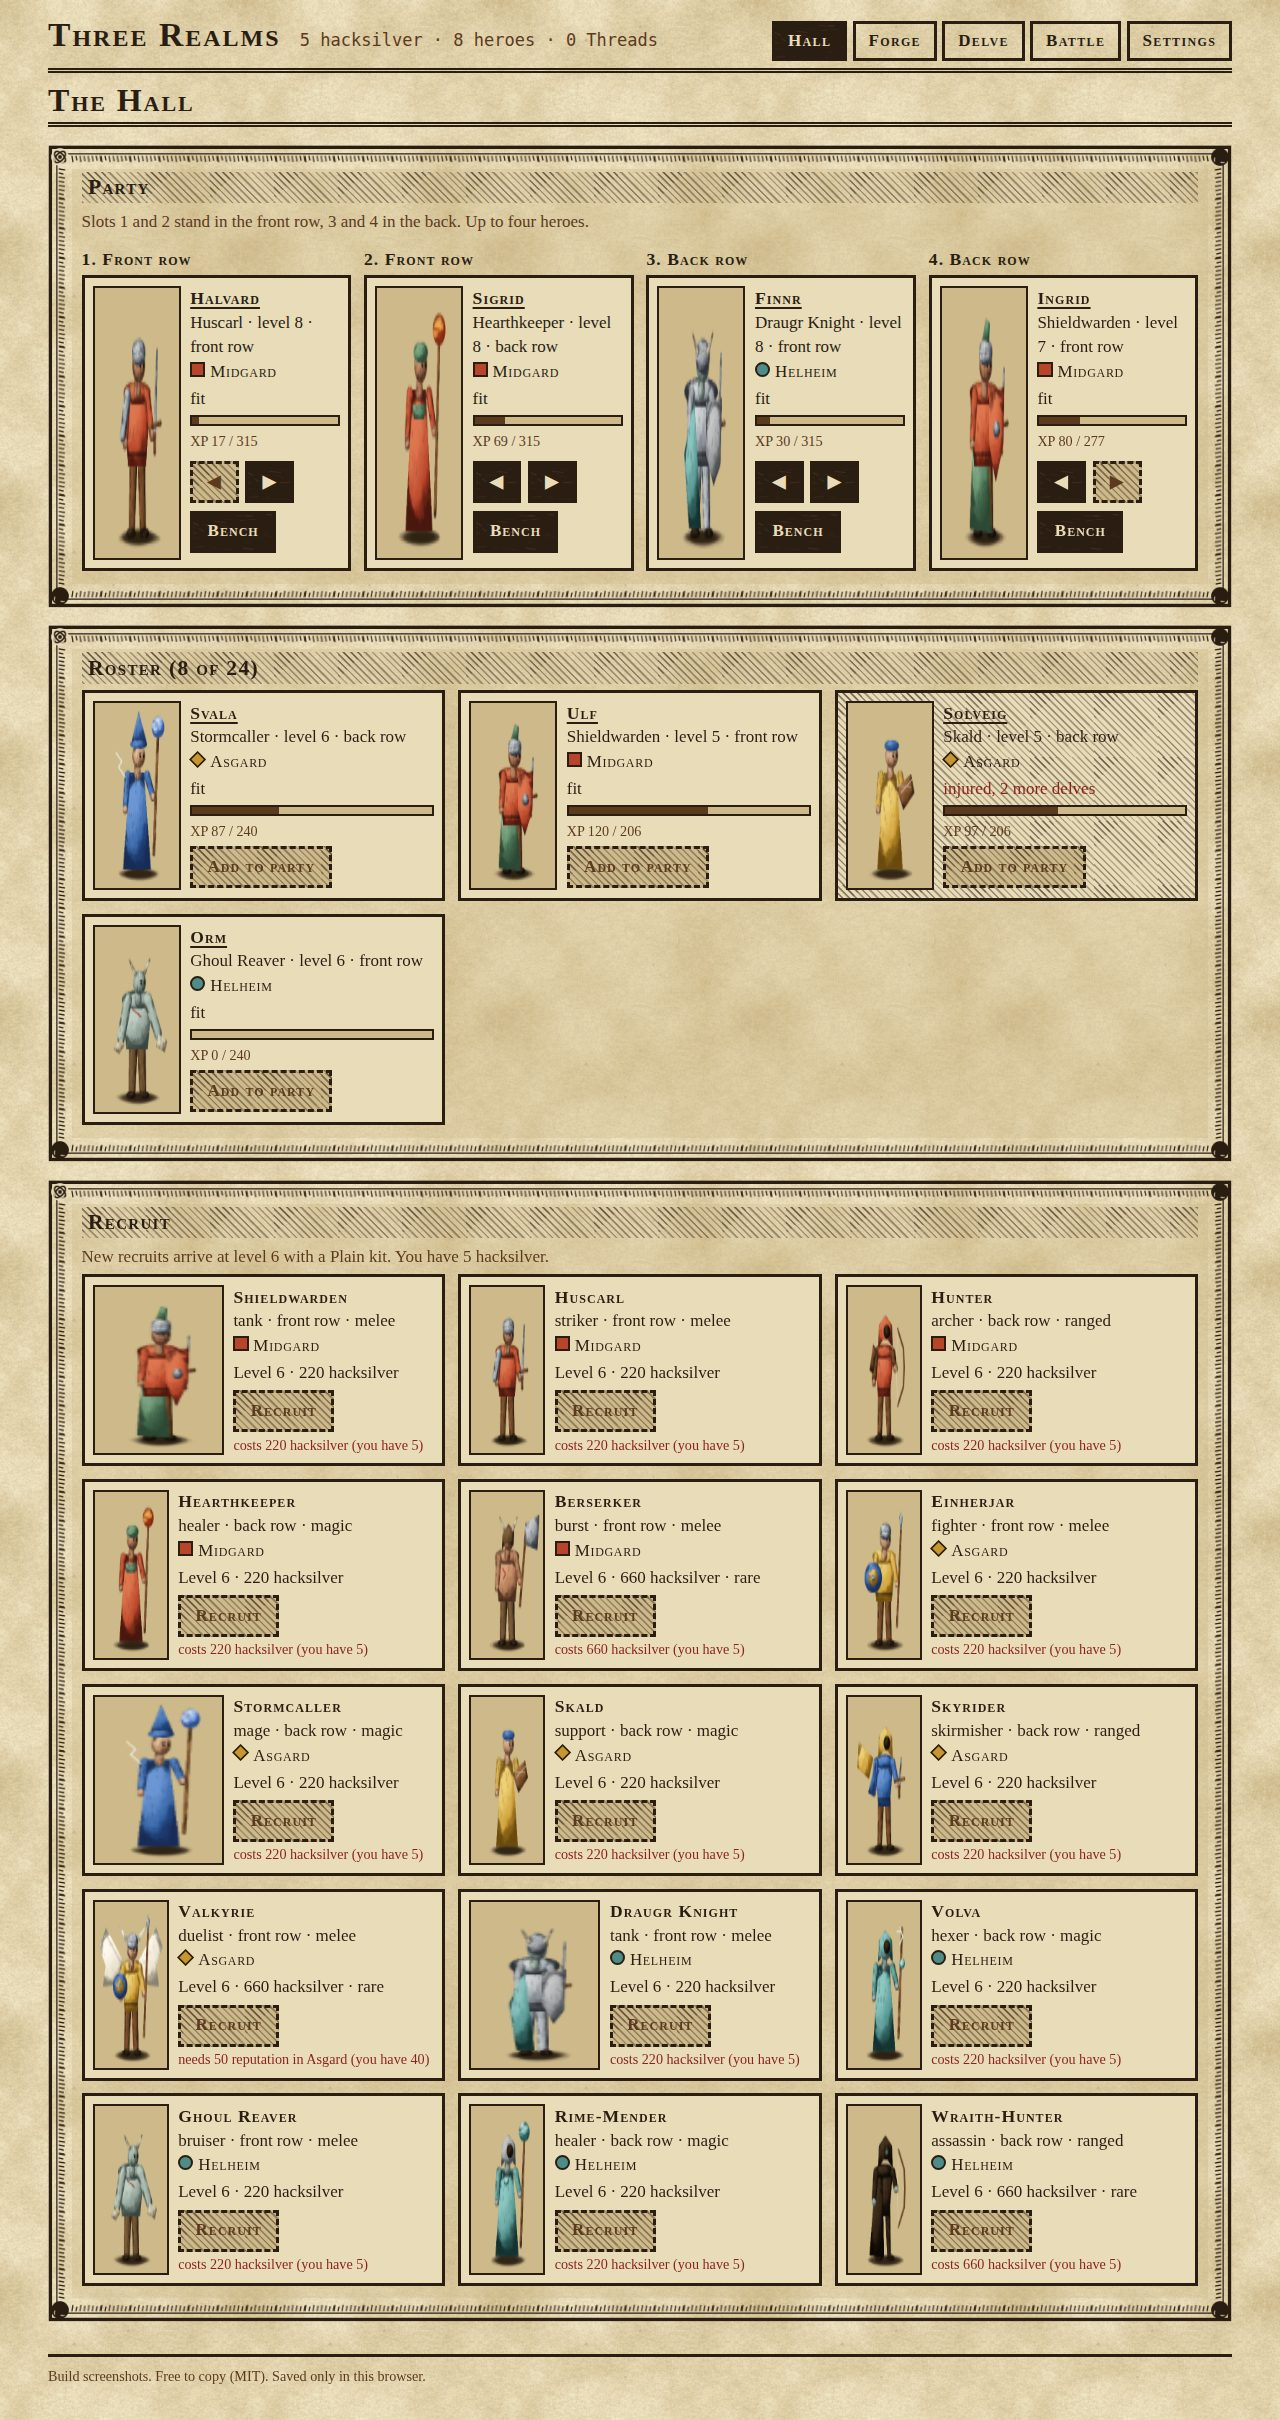
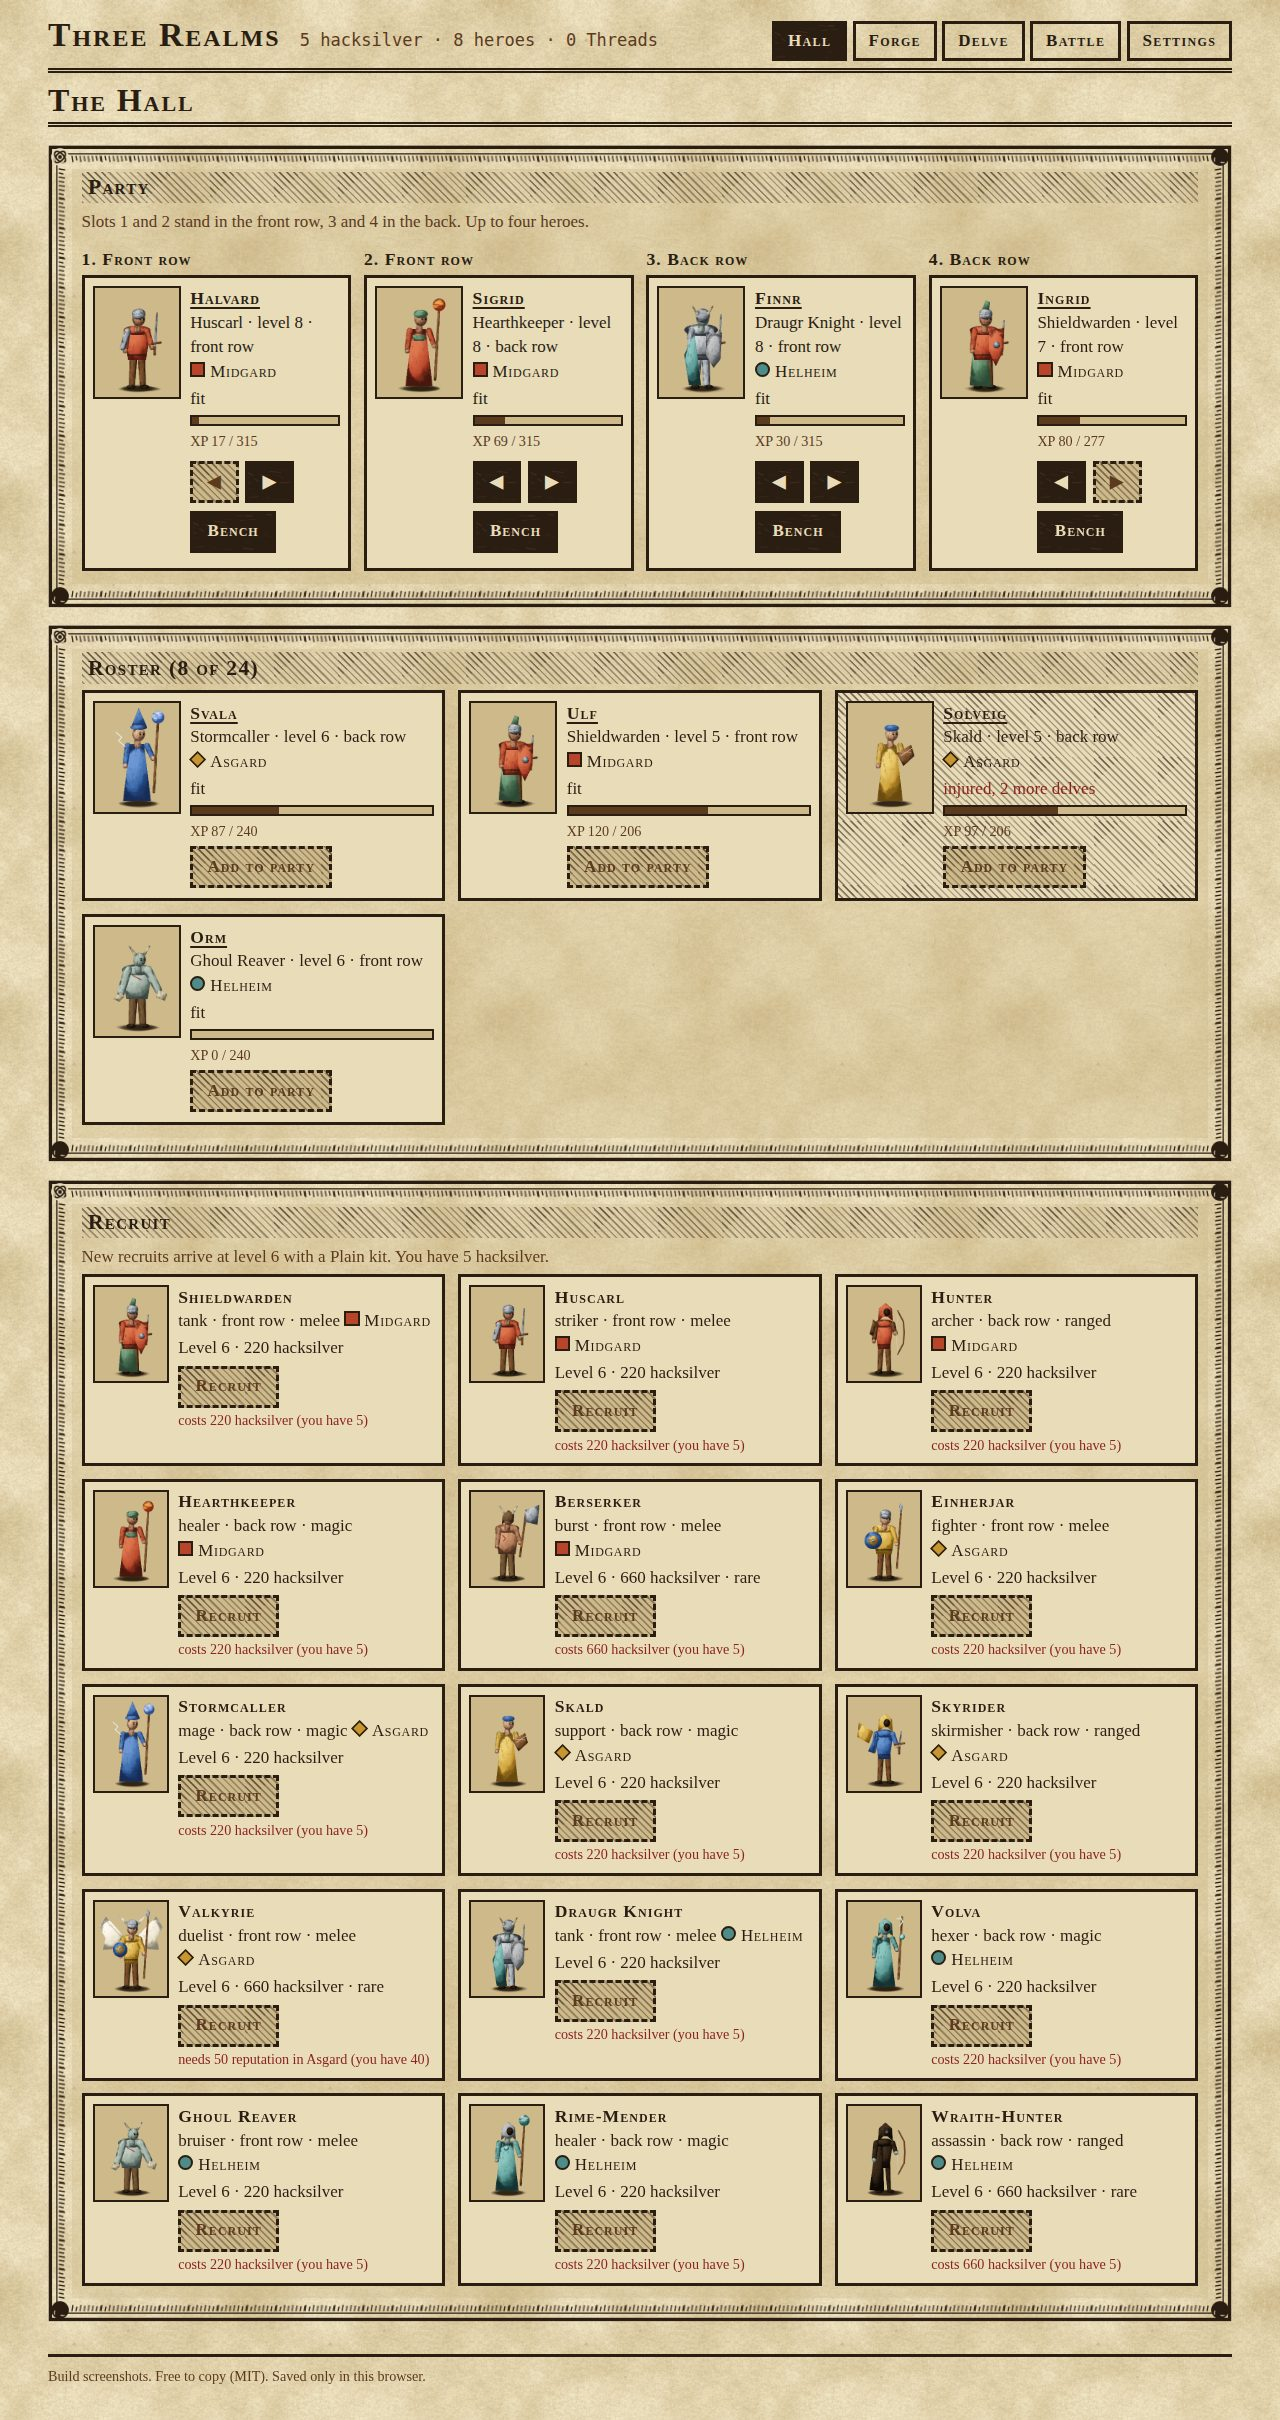
G4 playtest fixes: portrait aspect ratio in cards; upgrade result shows old and new bonus lines in the same units, with main stat at both stars; 477 tests
Claude-Session: https://claude.ai/code/session_0116toA1acAM4p7NexEw6SNf

diff --git a/client/screens/forge.js b/client/screens/forge.js
@@ -4,7 +4,7 @@ import { panel, kv, button } from '../ui.js';
 import { upgradeAttempt, acceptAttempt, undoAttempt, salvage, buyThread } from '../../sim/index.js';
 import { wornIds } from '../../sim/game.js';
 import { upgradeCost, salvageValue } from '../../sim/items.js';
-import { itemLine, itemTitle, itemMainText, itemLineTexts, itemSetText, pct, stars, matName } from '../format.js';
+import { itemLine, itemTitle, itemMainText, itemLineTexts, itemSetText, pct, stars, matName, linesTextAt, itemMainTextAt } from '../format.js';
 
 let selected = null, filter = 'all';
 
@@ -28,9 +28,12 @@ export function forge(ctx) {
     const why = it.held !== null ? 'accept or undo the pending attempt first' : it.star >= tier.maxStar ? `a ${tier.name} item stops at ${tier.maxStar} stars`
       : have < cost.common || haveRare < cost.rare ? `needs ${cost.common} ${matName(realm.material)}${cost.rare ? ` and ${cost.rare} ${matName(realm.rareMaterial)}` : ''} (you have ${have}${cost.rare ? ` and ${haveRare}` : ''})` : '';
     const pending = it.held !== null ? h('div', { class: 'pending', 'data-testid': 'pending' }, h('h3', null, it.star > it.heldStar ? `Success: ${stars(it.heldStar, tier.maxStar)} → ${stars(it.star, tier.maxStar)}` : 'No star gained'),
-      h('p', null, 'Bonus lines were rerolled.'), h('p', null, 'Before: ', it.held.length ? it.held.map(([k, raw]) => `${raw / 100}% ${content.items.lines[k].id}`).join(', ') : 'none (a Plain item has no lines)'), h('p', null, 'Now: ', itemLineTexts(it, content).join(', ') || 'none'),
+      h('p', null, 'Every attempt rerolls the bonus lines (kinds and values). The star result stands either way.'),
+      h('dl', { class: 'kv' }, h('dt', null, `Before (${stars(it.heldStar, tier.maxStar)})`), h('dd', { 'data-testid': 'lines-before' }, `${itemMainTextAt(it, it.heldStar, content)}; ${linesTextAt(it.held, it.heldStar, content).join(', ') || 'no bonus lines'}`),
+        h('dt', null, `Now (${stars(it.star, tier.maxStar)})`), h('dd', { 'data-testid': 'lines-now' }, `${itemMainText(it, content)}; ${itemLineTexts(it, content).join(', ') || 'no bonus lines'}`)),
+      it.star === it.heldStar && it.lines.length === 0 ? h('p', { class: 'hint' }, 'A Plain item has no bonus lines to reroll; only the star can change.') : null,
       h('div', { class: 'row-buttons' }, button('Keep this', () => ctx.run(acceptAttempt, it.id), { id: 'accept' }),
-        button('Undo (mulligan)', () => ctx.run(undoAttempt, it.id), { disabled: it.mulligan < 1, title: it.mulligan < 1 ? 'the mulligan for this star is spent' : 'restore the old lines; the materials are not refunded', id: 'undo' }))) : null;
+        button('Undo: restore the old lines', () => ctx.run(undoAttempt, it.id), { disabled: it.mulligan < 1, title: it.mulligan < 1 ? 'the mulligan for this star is spent' : 'the mulligan: put the old bonus lines back (the star stays; the materials are not refunded)', id: 'undo' }))) : null;
     detail = h('div', { class: 'item-detail', 'data-testid': 'item-detail' },
       h('h3', null, itemTitle(it, content)),
       kv([['Item level', it.ilvl], ['Stars', `${stars(it.star, tier.maxStar)} (${it.star} of ${tier.maxStar})`], ['Main', itemMainText(it, content)], ['Bonus lines', itemLineTexts(it, content).join(', ') || 'none'], ['Set', itemSetText(it, content) || 'none'],

diff --git a/client/style.css b/client/style.css
@@ -51,7 +51,7 @@ input[type="checkbox"], input[type="radio"] { width: 1.2rem; height: 1.2rem; acc
 .hero-card { display: flex; gap: .6rem; padding: .5rem; border: 3px solid var(--walnut); background: var(--vellum); }
 .hero-card.injured { background: var(--hatch-url) var(--vellum); }
 .hero-card h3 { margin: .1rem 0; } .hero-card p { margin: .15rem 0; }
-.portrait { flex: none; background: var(--vellum-shade); border: 2px solid var(--walnut); }
+.portrait { flex: none; align-self: flex-start; height: auto; background: var(--vellum-shade); border: 2px solid var(--walnut); }
 .bar { height: .7rem; background: var(--vellum-shade); border: 2px solid var(--walnut); margin: .2rem 0; } .bar i { display: block; height: 100%; background: var(--umber); }
 .realm::before { content: ''; display: inline-block; width: .7rem; height: .7rem; margin-right: .3rem; border: 2px solid var(--walnut); }
 .realm.midgard::before { background: var(--midgard); border-radius: 0; } .realm.asgard::before { background: var(--asgard); transform: rotate(45deg) scale(.8); } .realm.helheim::before { background: var(--helheim); border-radius: 50%; }

diff --git a/client/format.js b/client/format.js
@@ -17,9 +17,13 @@ export function itemMainText(it, content) {
   if (m.resist) parts.push(`+${pct(m.resist)} ${content.realmById[it.realm].element} resist`);
   return parts.join(', ');
 }
-export function itemLineTexts(it, content) {
-  return it.lines.map(([k, raw]) => { const def = content.items.lines[k]; return `+${pct(lineValue(raw, it.star, content.items))} ${LINE_NAME[def.id]}`; });
+// Bonus lines as the player reads them: the value in effect at `star` (the stored raw roll scaled by the star, DESIGN 8.3).
+export function linesTextAt(lines, star, content) {
+  return lines.map(([k, raw]) => `+${pct(lineValue(raw, star, content.items))} ${LINE_NAME[content.items.lines[k].id]}`);
 }
+export const itemLineTexts = (it, content) => linesTextAt(it.lines, it.star, content);
+// The main stats of the item as it stood at `star`.
+export const itemMainTextAt = (it, star, content) => itemMainText({ ...it, star }, content);
 export function itemSetText(it, content) { return it.set ? content.setById[it.set].name : ''; }
 export function itemLine(it, content) {
   const tier = content.tierById[it.tier];

diff --git a/LOG.md b/LOG.md
@@ -133,3 +133,8 @@ decision: stop — STOP-2. G5 not started
 
 ### G4 retrospective — 2026-10-02
 rounds used: 7 (R15 design 0.5, R16 rules layer, R17 bundler and file://, R18 art, R19 screens, R20 tests and budgets, R21 workflows and report). What the evaluation caught that reading would not: a stash-overfill rules bug found by a random player (R16); a bundler that silently turned a wrong import into `undefined` (R19); a frame-time measurement that measured nothing until it forced the raster (R20); a disabled button that never re-enabled (R20) and a mutation that survived a test that only looked at button state; the look of the thing, which only screenshots judged (three passes on the figures, one on the battle layout, one on phone width). What I would specify differently: put the screen list and the `data-testid` names in DESIGN section 17 before building (they are now the de facto contract); write the Node-checkable reducer (replay-state) first and the canvas second, which is what made the battle testable; decide up front that every rendered number comes from `sim/` (it did, and `client/format.js` calls the sim's own item and stat functions, so the screens cannot disagree with the delve).
+
+### R22 — G4/playtest-fixes — 2026-10-03
+plan: Ziggy's first playtest of the Pages preview reported (1) portraits stretched vertically on the active-party cards, (2) upgrades seeming to keep the bonus type and only raise its value, primary stats seeming not to change | eval: reproduce each in the real page, then `npm test` | expect: a failing test for each before the fix
+result: (1) reproduced: a canvas in a stretching flex row takes the card's height; `.portrait` now `align-self: flex-start; height: auto`; the new aspect test fails without that line and passes with it. (2) NOT reproduced as a rules fault: the rules layer rerolls kind and value on every attempt (a Node loop of six attempts on a Fine item gave VIG, Crit damage, SPD, GRD, GRD, GRD; the page showed the same). What the page did get wrong: the pending panel printed "Before" as raw rolls with internal ids (`8% VIG_PCT`) and "Now" as scaled values with names (`+15.4% Crit damage`), so the two could not be compared; both now use one formatter at their own star. Primary stats: the star multiplier is +5% per star and values floor, so on a level-1 item (+6 MIT) stars 1 to 3 change nothing visible and only star 4 shows +7; a design observation, not changed. A likely reading of what was seen: the mulligan (Undo) puts the old lines back while the star stays, so the old bonus type stays and its value is scaled up by the new star
+decision: proceed — pushed; asked Ziggy what was clicked and whether low-level star gains should be visible
